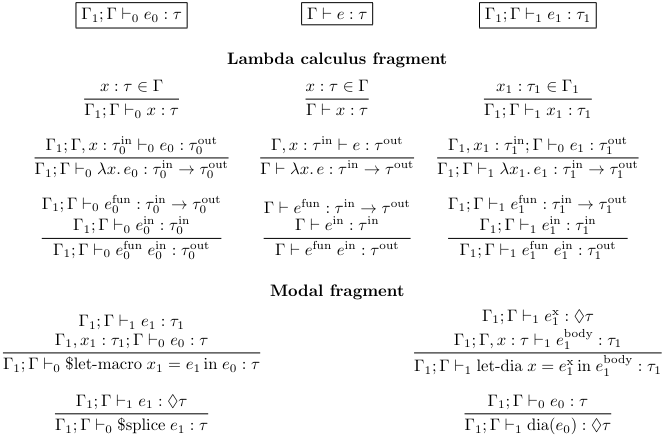
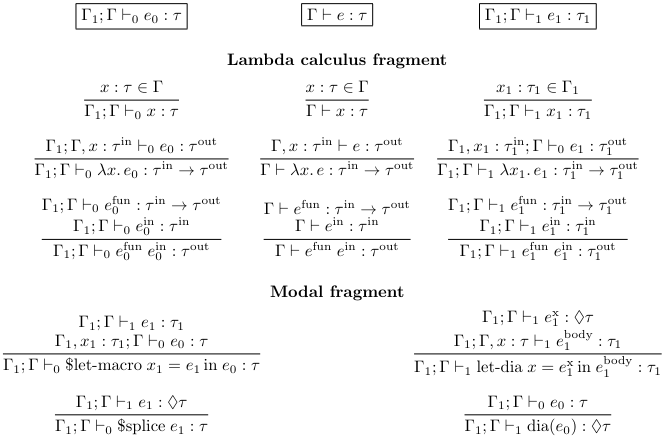
more stray tau_0's

diff --git a/latex/staged-diamond-calculus.tex b/latex/staged-diamond-calculus.tex
@@ -149,8 +149,8 @@
 \vspace{2ex}
 \\
   \trfrac
-  {\Gamma_1; \Gamma, x : \tau^{\text{in}}_0 \vdash_0 e_0 : \tau^{\text{out}}_0}
-  {\Gamma_1; \Gamma \vdash_0 \lambda x.\,e_0 :\tau^{\text{in}}_0 \to \tau^{\text{out}}_0}
+  {\Gamma_1; \Gamma, x : \tau^{\text{in}} \vdash_0 e_0 : \tau^{\text{out}}}
+  {\Gamma_1; \Gamma \vdash_0 \lambda x.\,e_0 :\tau^{\text{in}} \to \tau^{\text{out}}}
   &
   \trfrac
   {\Gamma, x : \tau^{\text{in}} \vdash e : \tau^{\text{out}}}
@@ -164,13 +164,13 @@
   \trfrac
   {
     \begin{trgather}
-    \Gamma_1; \Gamma \vdash_0 e^{\text{fun}}_0 : \tau^{\text{in}}_0 \to \tau^{\text{out}}_0
+      \Gamma_1; \Gamma \vdash_0 e^{\text{fun}}_0 : \tau^{\text{in}} \to \tau^{\text{out}}
     \vspace{0.5ex}
     \\
-    \Gamma_1; \Gamma \vdash_0 e^{\text{in}}_0 : \tau^{\text{in}}_0
+      \Gamma_1; \Gamma \vdash_0 e^{\text{in}}_0 : \tau^{\text{in}}
     \end{trgather}
   }
-  {\Gamma_1; \Gamma \vdash_0 e^{\text{fun}}_0\;e^{\text{in}}_0 : \tau^{\text{out}}_0}
+  {\Gamma_1; \Gamma \vdash_0 e^{\text{fun}}_0\;e^{\text{in}}_0 : \tau^{\text{out}}}
   &
   \trfrac
   {
